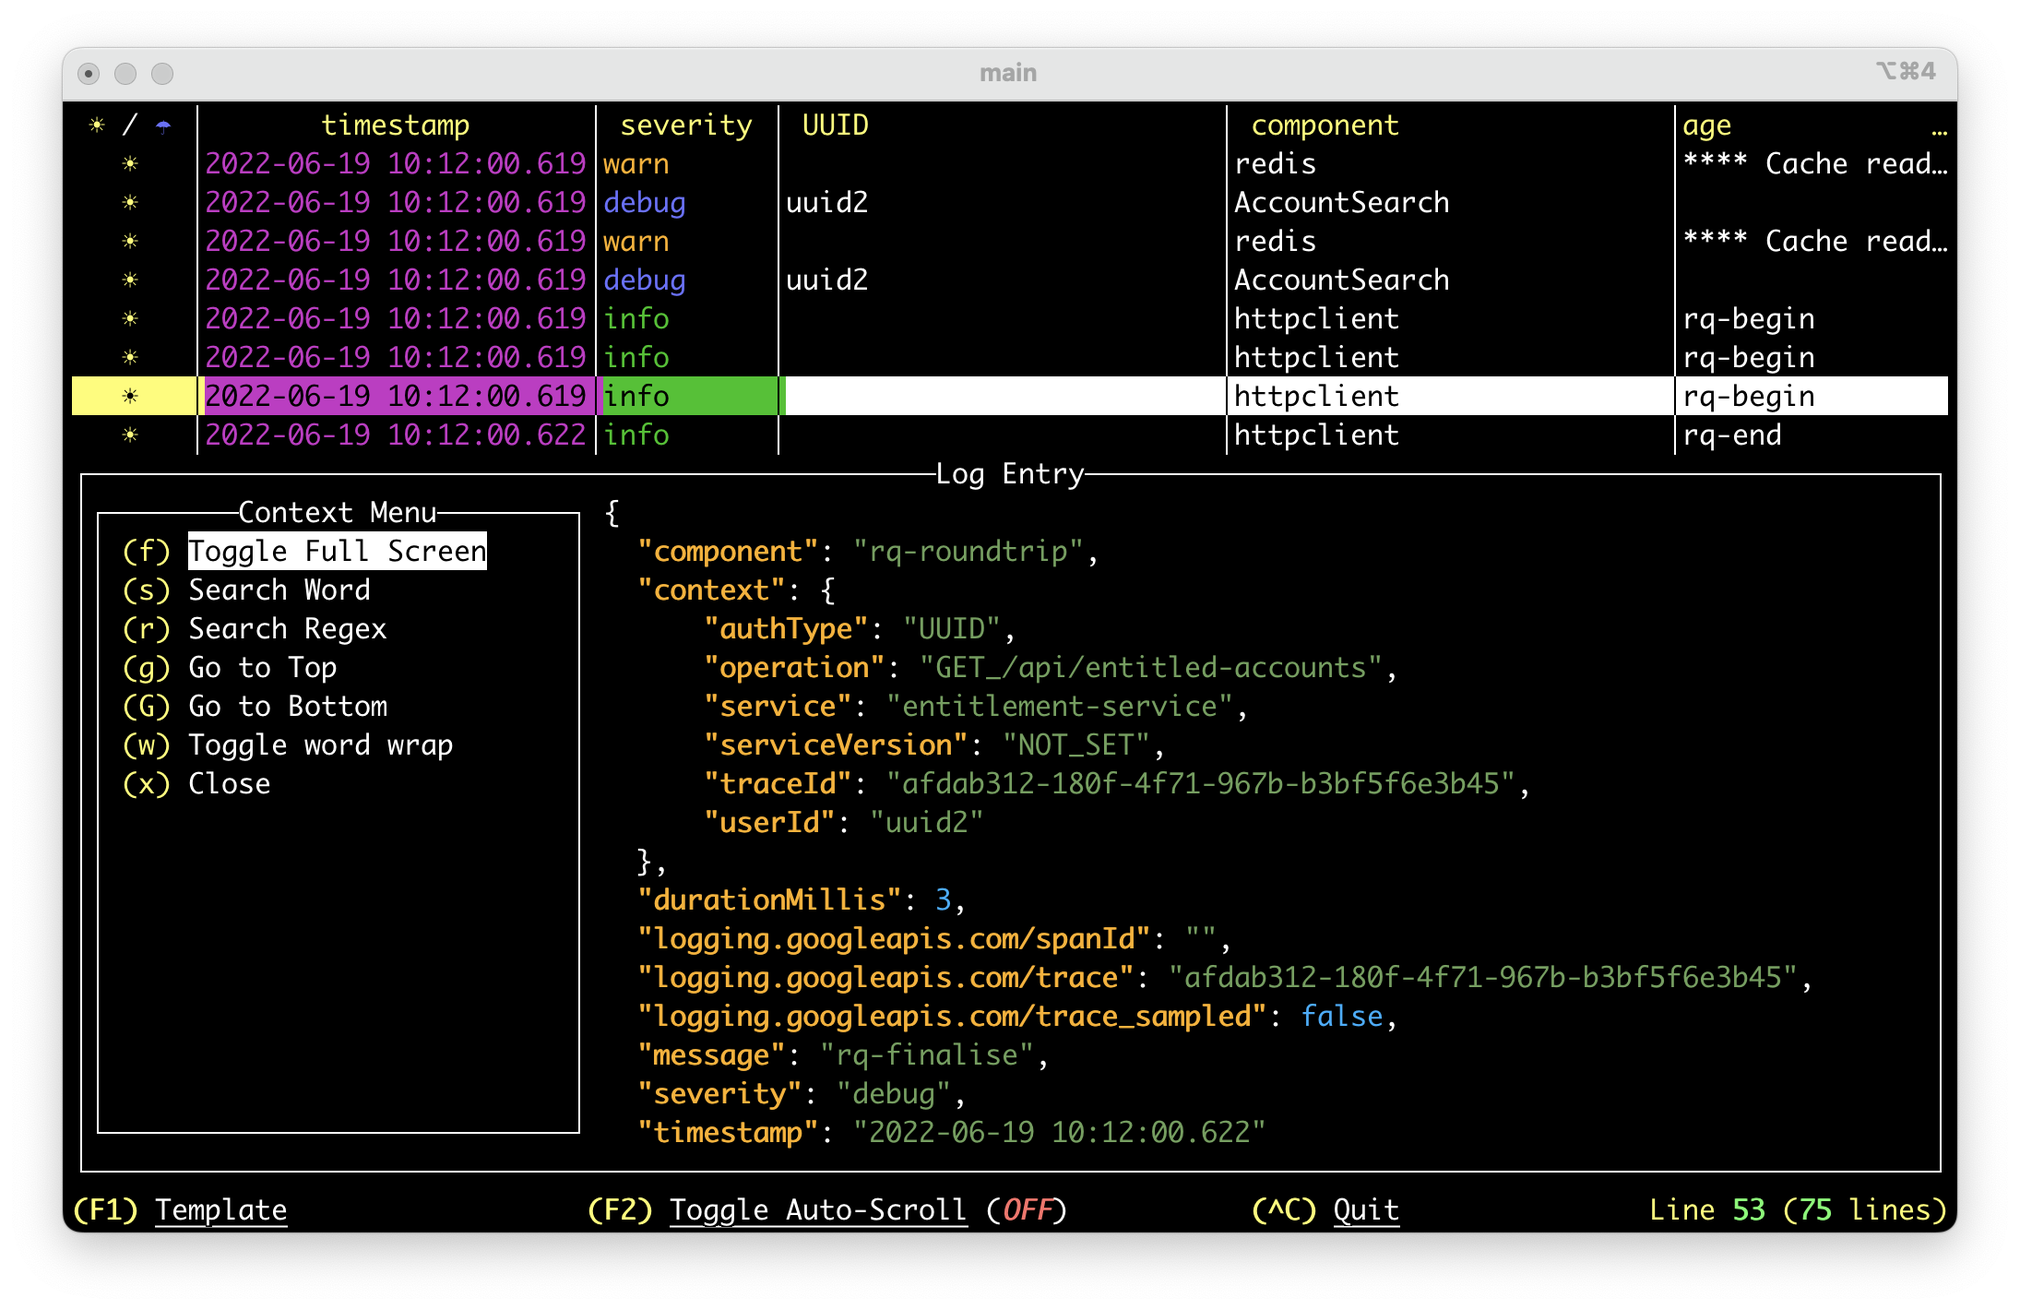
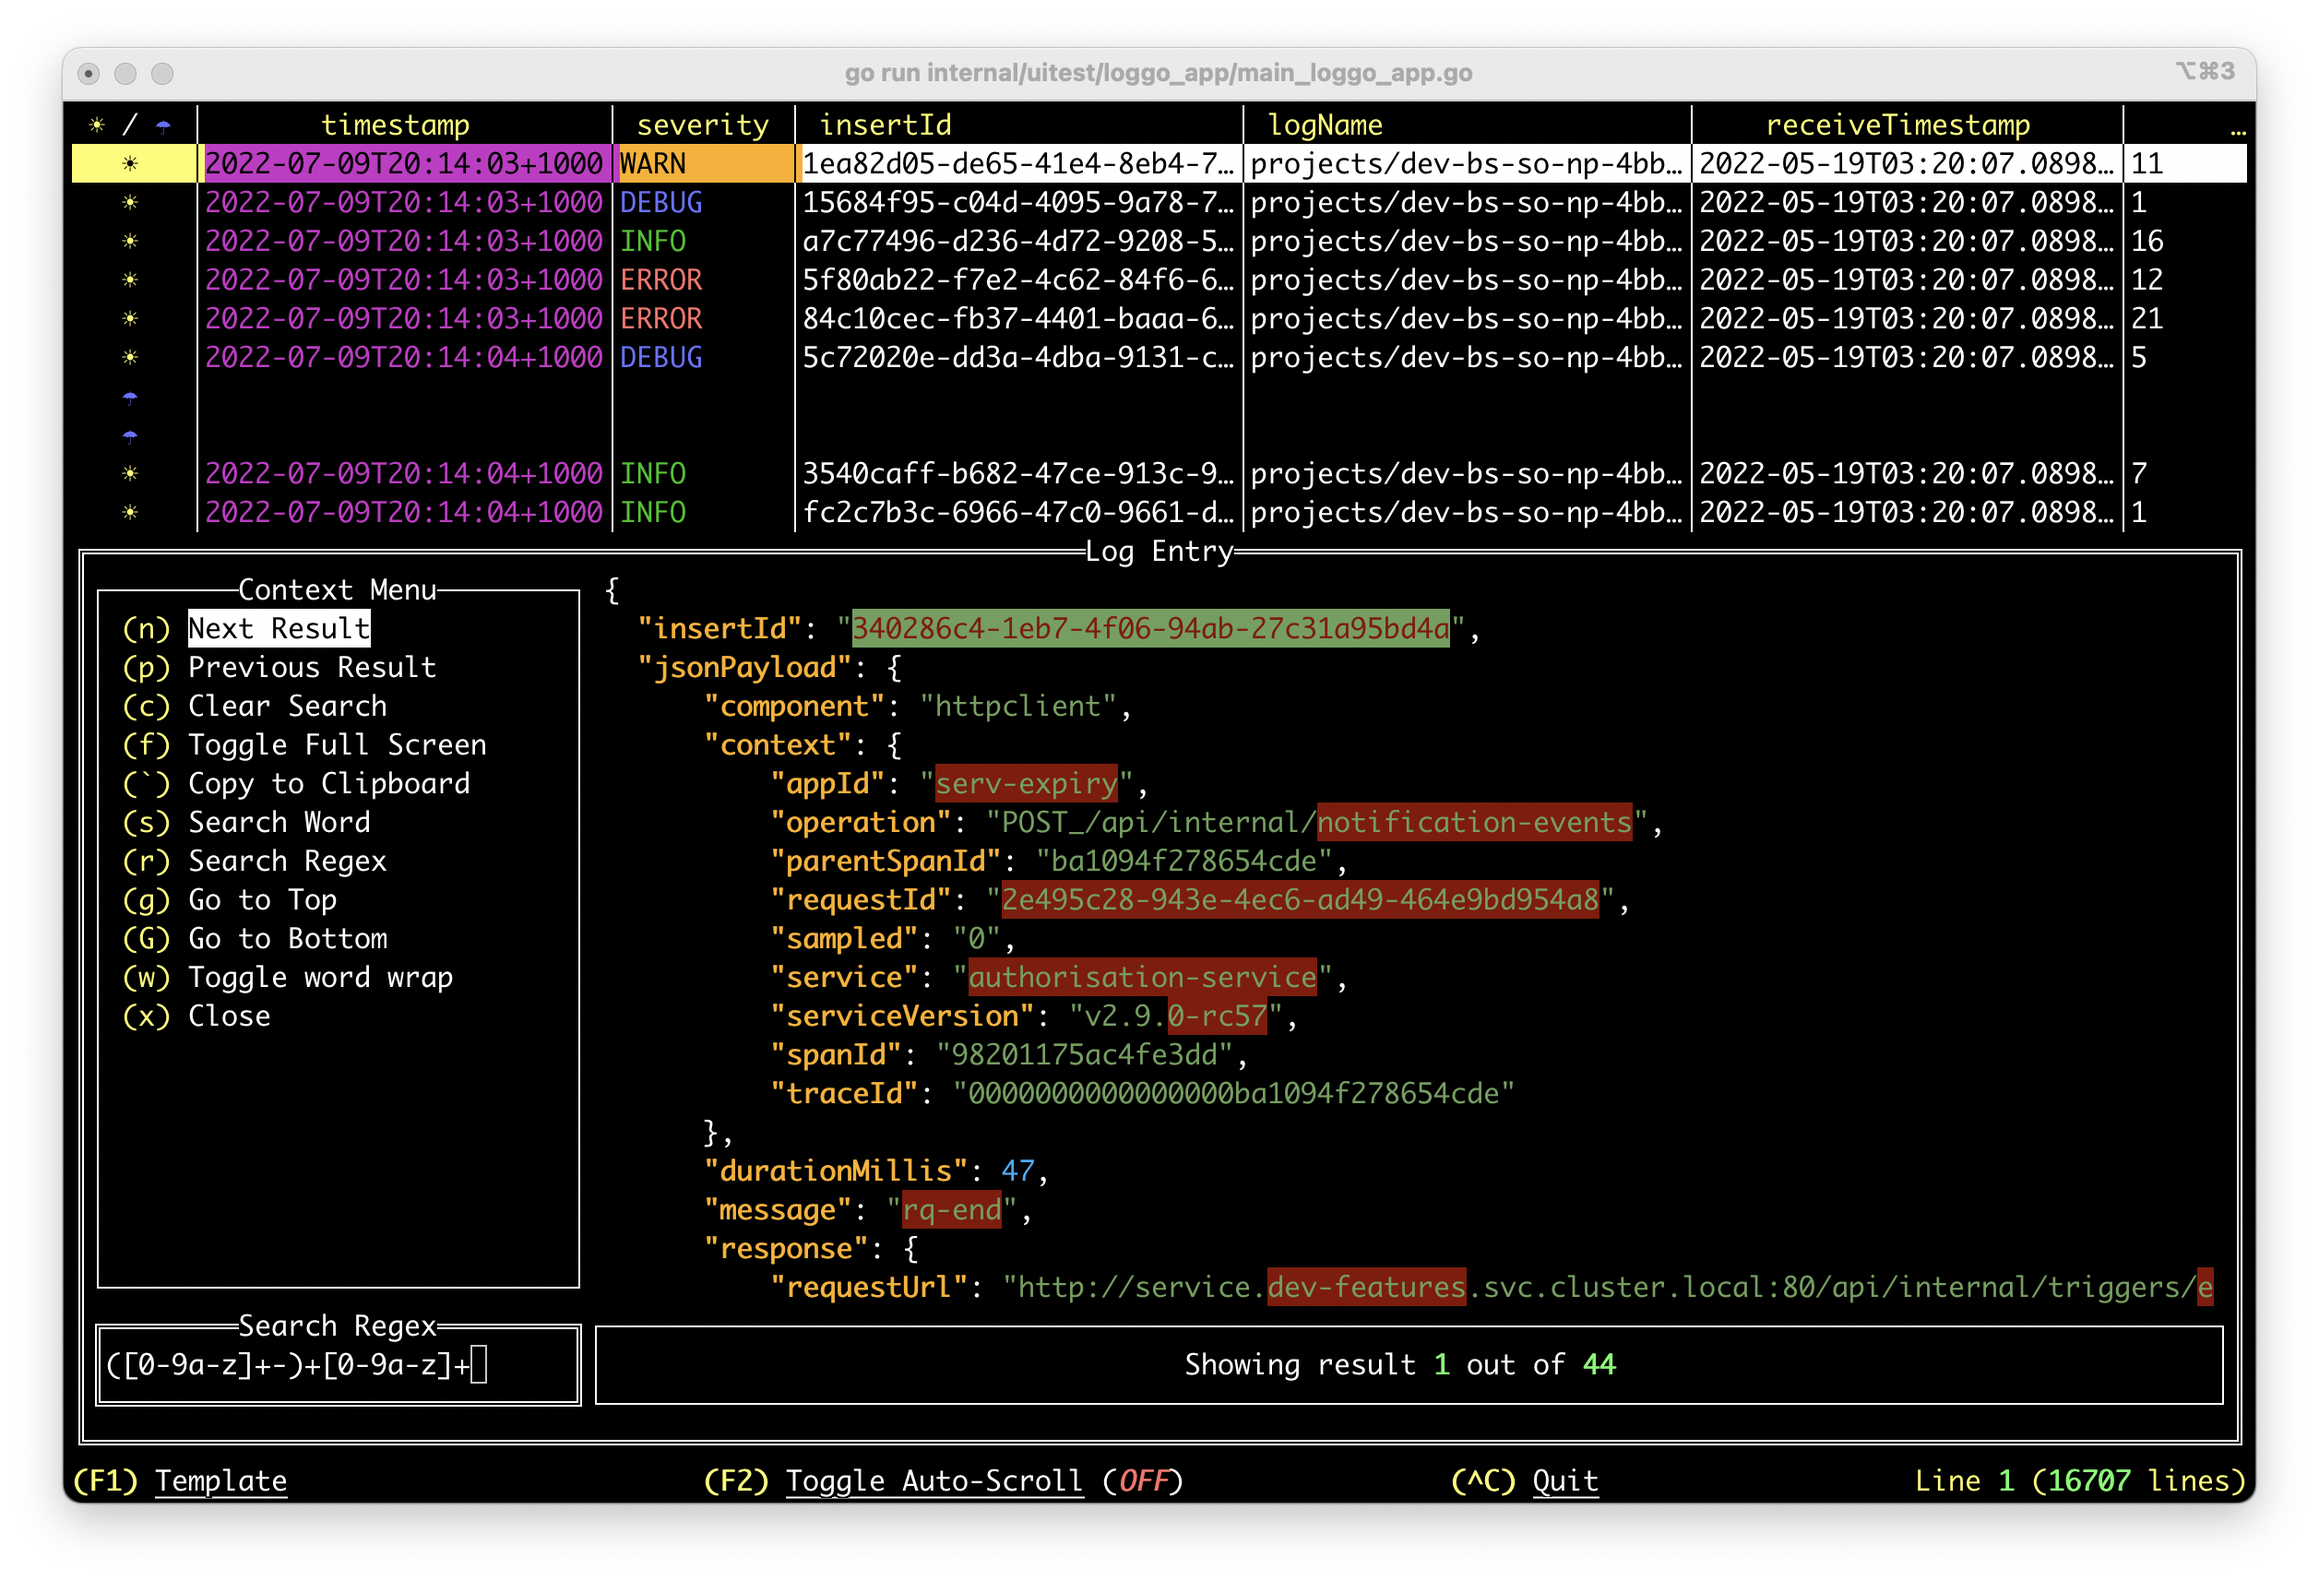
Added ability to copy log entry to the clipboard. (#10)

Changed region(s): [[0.0, 0.031, 0.9936, 0.9606], [0.7452, 0.7437, 0.8694, 0.7746]]

diff --git a/internal/loggo/json_view.go b/internal/loggo/json_view.go
@@ -25,13 +25,14 @@ package loggo
 import (
 	"encoding/json"
 	"fmt"
-	"sort"
-	"strings"
-
 	"github.com/aurc/loggo/internal/color"
 	"github.com/aurc/loggo/internal/search"
 	"github.com/gdamore/tcell/v2"
 	"github.com/rivo/tview"
+	"golang.design/x/clipboard"
+	"sort"
+	"strings"
+	"time"
 )
 
 type JsonView struct {
@@ -50,6 +51,7 @@ type JsonView struct {
 	withSearchTag            string
 	wordWrap                 bool
 	showQuit                 bool
+	isCopyMode               bool
 	toggleFullScreenCallback func()
 	closeCallback            func()
 }
@@ -60,6 +62,7 @@ func NewJsonView(app Loggo, showQuit bool,
 		Flex:                     *tview.NewFlex(),
 		app:                      app,
 		indent:                   "  ",
+		isCopyMode:               true,
 		showQuit:                 showQuit,
 		toggleFullScreenCallback: toggleFullScreenCallback,
 		closeCallback:            closeCallback,
@@ -67,6 +70,16 @@ func NewJsonView(app Loggo, showQuit bool,
 	v.makeUIComponents()
 	v.makeLayouts(false)
 	v.makeContextMenu()
+
+	go func() {
+		time.Sleep(time.Second)
+		err := clipboard.Init()
+		if err != nil {
+			v.isCopyMode = false
+			v.app.ShowPopMessage(fmt.Sprintf(`Clipboard copy disabled in your system: [red]%s`, err.Error()), 3)
+		}
+	}()
+
 	return v
 }
 
@@ -83,6 +96,7 @@ func (j *JsonView) makeUIComponents() {
 		SetRegions(true).
 		SetDynamicColors(true).
 		SetWrap(j.wordWrap)
+
 	j.textView.
 		SetBackgroundColor(color.ColorBackgroundField).
 		SetBorderPadding(0, 0, 1, 1).
@@ -109,6 +123,8 @@ func (j *JsonView) makeUIComponents() {
 				}
 			}
 			switch event.Rune() {
+			case '`':
+				j.copyToClipboard()
 			case 'f', 'F':
 				if j.toggleFullScreenCallback != nil {
 					j.toggleFullScreenCallback()
@@ -207,6 +223,8 @@ func (j *JsonView) makeLayouts(search bool) {
 
 func (j *JsonView) makeContextMenu() {
 	j.contextMenu.Clear().ShowSecondaryText(false).SetBorderPadding(0, 0, 1, 1)
+	j.contextMenu.
+		ShowSecondaryText(false)
 	if j.isSearching {
 		j.contextMenu.
 			AddItem("Next Result", "", 'n', func() {
@@ -219,14 +237,17 @@ func (j *JsonView) makeContextMenu() {
 				j.clearSearch()
 			})
 	}
-	j.contextMenu.
-		ShowSecondaryText(false)
+
 	if j.toggleFullScreenCallback != nil {
 		j.contextMenu.AddItem("Toggle Full Screen", "", 'f', func() {
 			j.toggleFullScreenCallback()
 		})
 	}
+
 	j.contextMenu.
+		AddItem("Copy to Clipboard", "", '`', func() {
+			j.copyToClipboard()
+		}).
 		AddItem("Search Word", "", 's', func() {
 			j.prepareCaseInsensitiveSearch()
 		}).
@@ -243,6 +264,7 @@ func (j *JsonView) makeContextMenu() {
 			j.wordWrap = !j.wordWrap
 			j.textView.SetWrap(j.wordWrap)
 		})
+
 	if j.closeCallback != nil {
 		j.contextMenu.AddItem("Close", "", 'x', func() {
 			j.closeCallback()
@@ -253,6 +275,20 @@ func (j *JsonView) makeContextMenu() {
 			j.app.Stop()
 		})
 	}
+}
+
+func (j *JsonView) copyToClipboard() {
+	size := ""
+	l := float64(len(j.jText))
+	if l > 1000000 {
+		size = fmt.Sprintf(`[yellow::bu]%.2fMB[-::-]`, l/1000000.0)
+	} else if l > 1000 {
+		size = fmt.Sprintf(`[yellow::bu]%.2f KB[-::-]`, l/1000.0)
+	} else {
+		size = fmt.Sprintf(`[yellow::bu]%.0f bytes[-::-]`, l)
+	}
+	j.app.ShowPopMessage(fmt.Sprintf(`Copied %s to clipboard`, size), 3)
+	clipboard.Write(clipboard.FmtText, j.jText)
 }
 
 func (j *JsonView) prepareCaseInsensitiveSearch() {
@@ -283,6 +319,7 @@ func (j *JsonView) prepareRegexSearch() {
 
 func (j *JsonView) search(word string) []int {
 	j.isSearching = true
+	j.isCopyMode = false
 	j.makeContextMenu()
 	j.searchStrategy.Clear()
 	j.withSearchTag = word
@@ -317,6 +354,7 @@ func (j *JsonView) clearSearch() {
 	j.app.SetFocus(j.textView)
 	j.searchInput.SetText("")
 	j.isSearching = false
+	j.isCopyMode = true
 	j.withSearchTag = ""
 	j.setJson()
 	j.makeLayouts(false)

diff --git a/internal/loggo/app_scaffold.go b/internal/loggo/app_scaffold.go
@@ -24,10 +24,10 @@ package loggo
 
 import (
 	"fmt"
-
 	"github.com/aurc/loggo/internal/config"
 	"github.com/gdamore/tcell/v2"
 	"github.com/rivo/tview"
+	"time"
 )
 
 type appScaffold struct {
@@ -91,6 +91,31 @@ func (a *appScaffold) StackView(p tview.Primitive) {
 func (a *appScaffold) PopView() {
 	a.pages.RemovePage(fmt.Sprintf(`_%d`, len(a.stackPages)))
 	a.stackPages = a.stackPages[:len(a.stackPages)-1]
+}
+
+func (a *appScaffold) ShowPopMessage(text string, waitSecs int64) {
+	modal := tview.NewFlex().SetDirection(tview.FlexRow)
+	modal.SetBackgroundColor(tcell.ColorDarkBlue)
+	countdownText := tview.NewTextView().SetTextAlign(tview.AlignRight)
+	mainContent := tview.NewTextView().
+		SetTextAlign(tview.AlignCenter).
+		SetWordWrap(true).
+		SetDynamicColors(true).
+		SetText(text)
+	mainContent.SetBackgroundColor(tcell.ColorDarkBlue).SetBorderPadding(0, 0, 2, 2)
+	modal.AddItem(mainContent, 0, 1, false)
+	modal.AddItem(countdownText, 1, 1, false)
+	a.ShowModal(modal, len(text)/2, 5, tcell.ColorDarkBlue)
+	countdownText.SetTextColor(tcell.ColorLightGrey).SetBackgroundColor(tcell.ColorDarkBlue)
+	go func() {
+		for i := waitSecs; i >= 0; i-- {
+			countdownText.SetText(fmt.Sprintf(`(%ds)`, i))
+			a.Draw()
+			time.Sleep(time.Second)
+		}
+		a.DismissModal()
+		a.Draw()
+	}()
 }
 
 func (a *appScaffold) ShowPrefabModal(text string, width, height int, buttons ...*tview.Button) {

diff --git a/internal/loggo/app.go b/internal/loggo/app.go
@@ -39,6 +39,7 @@ type Loggo interface {
 	SetInputCapture(cap func(event *tcell.EventKey) *tcell.EventKey)
 	Stop()
 	SetFocus(primitive tview.Primitive)
+	ShowPopMessage(text string, waitSecs int64)
 	ShowPrefabModal(text string, width, height int, buttons ...*tview.Button)
 	ShowModal(p tview.Primitive, width, height int, bgColor tcell.Color)
 	DismissModal()

diff --git a/README.md b/README.md
@@ -125,11 +125,15 @@ Note that you can pipe to anything that produces an output to the `stdin`.
 **Some Additional Features:**
 - Drill down onto each log entry
 ![](img/log_entry.png)
+- Copy Log-Entry to Clipboard
+  - Note: Linux requires X11 dev package. For instance, install `libx11-dev` or `xorg-dev` or `libX11-devel` to access X window system.
+  ![](img/copy_clipboard.png)
 - Configure Rendering Templates:
 ![](img/render_template.png)
 - Fine Tune how columns are displayed (Template):
-![](img/how_to_display.png)
-    Note that single Value Matches are REGEX expressions.
+    - Note that single Value Matches are REGEX expressions.
+  ![](img/how_to_display.png)
+
 
 ### `template` Command
 The template command opens up the template editor without the
@@ -155,7 +159,6 @@ Most of the items listed here are slated for development in the near future,
 prior the first release.
 - Search log entry.
 - Filter log by json key(s).
-- Copy single log entry to clipboard.
 - Browse/Load new log templates on the fly.
 - Create template with keys whose name contains `/` as it uses slashes to navigate to nested json branches.
 
